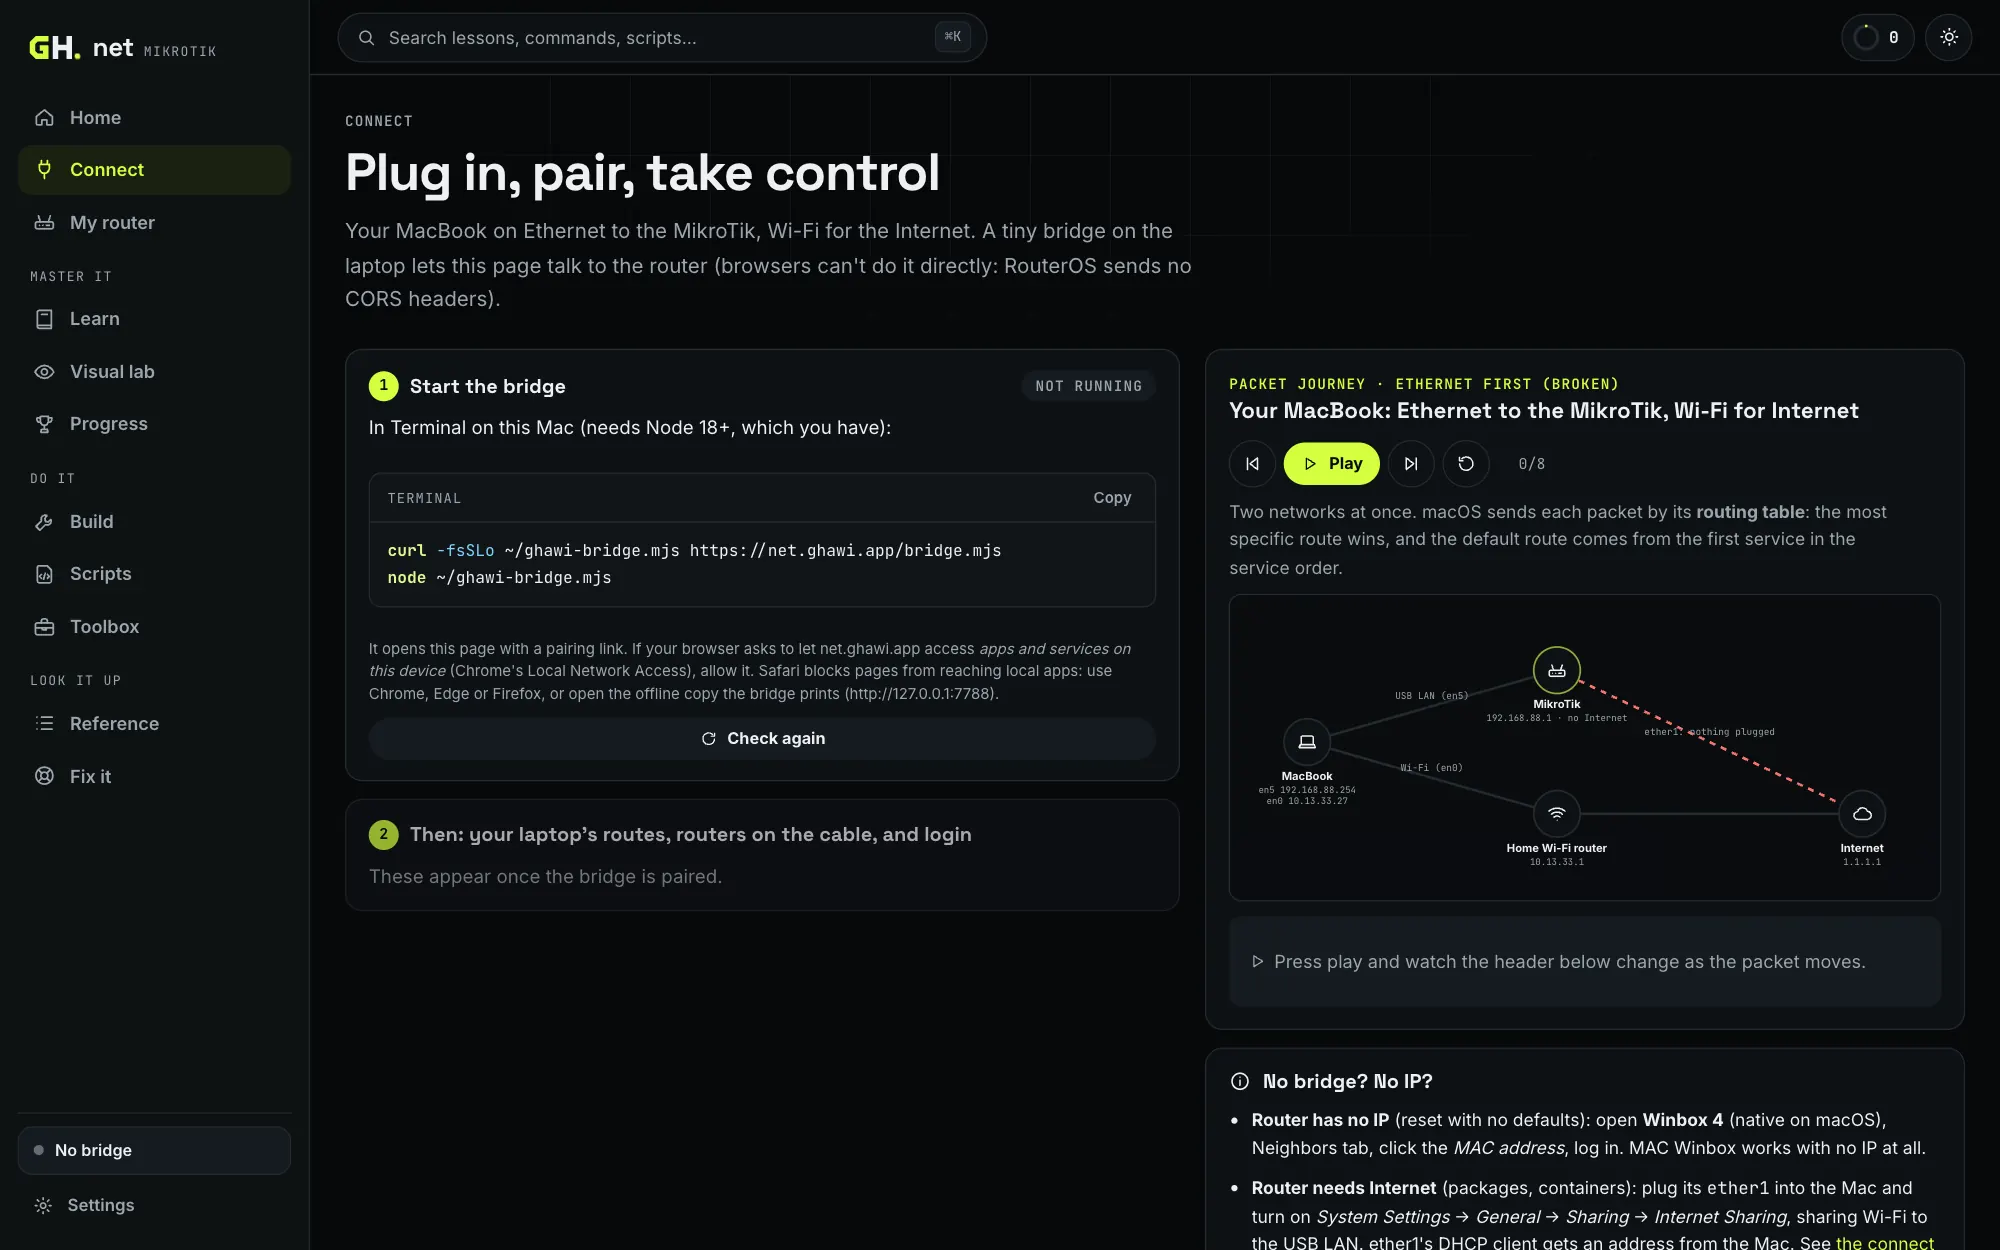
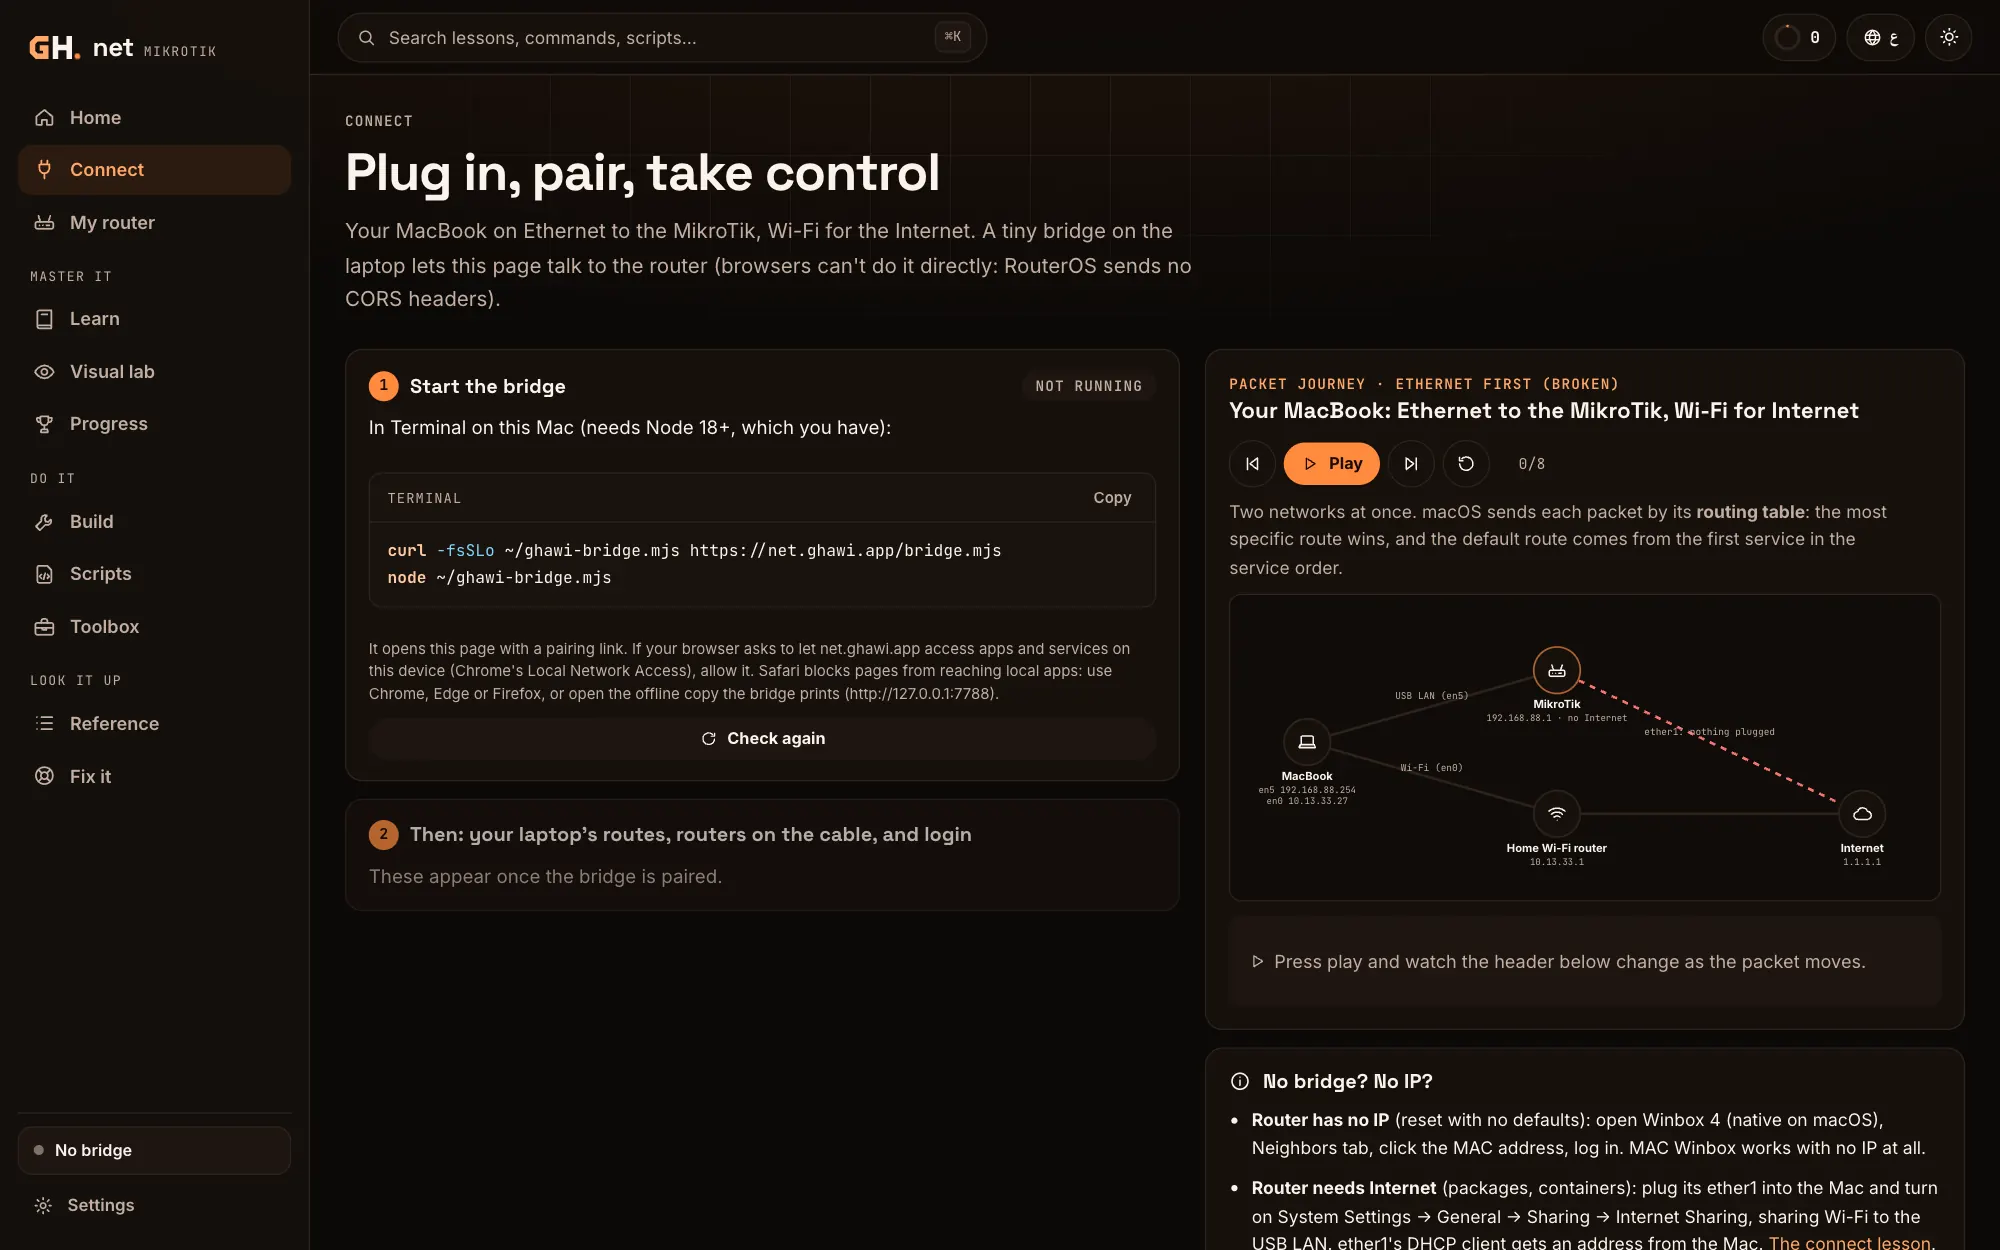
home.ghawi.app without sign-in; GH net shown in its orange look
- home.ghawi.app is a plain page now (the owner's call): no admin sign-in,
  no sign-out button. It stays noindex; every admin it links to keeps its
  own sign-in.
- GH net's screenshots (project card, case study, gallery) retaken in its
  new orange Ember look, so it no longer reads like GH-Cash's green.
- The Arabic GH net links open the site in Arabic (?lang=ar).

diff --git a/src/app/home/page.tsx b/src/app/home/page.tsx
@@ -1,17 +1,10 @@
-import { cookies } from "next/headers";
-import { LoginForm } from "@/components/admin/login-form";
 import { HomeConsole } from "@/components/home/home-console";
-import { ADMIN_COOKIE, type AdminEnv, getEnv, isAuthenticated } from "@/lib/admin-server";
 
-export const dynamic = "force-dynamic";
-
-/** home.ghawi.app — the ghawi.app admin's sign-in, then every ghawi service. */
-export default async function HomePage() {
-  const env = ((await getEnv()) ?? {}) as AdminEnv;
-  const configured = Boolean(env.ADMIN_USERNAME && env.ADMIN_PASSWORD_HASH && env.ADMIN_SESSION_SECRET);
-  if (!configured) return <LoginForm locked note="home, every ghawi service in one place." />;
-
-  const jar = await cookies();
-  const authed = await isAuthenticated(jar.get(ADMIN_COOKIE)?.value, env);
-  return authed ? <HomeConsole /> : <LoginForm locked={false} note="home, every ghawi service in one place. Sign in with the ghawi.app admin account." />;
+/**
+ * home.ghawi.app — every ghawi service in one place. A plain page, no sign-in
+ * (the owner's call): each admin it links to keeps its own sign-in. Still
+ * never indexed (layout metadata and next.config.ts headers).
+ */
+export default function HomePage() {
+  return <HomeConsole />;
 }

diff --git a/src/components/home/home-console.tsx b/src/components/home/home-console.tsx
@@ -1,6 +1,5 @@
 "use client";
 
-import { useRouter } from "next/navigation";
 import { ExternalIcon, MoonIcon, ServiceIcon, SunIcon } from "@/components/icons";
 import { Logo } from "@/components/logo";
 import { HOME_SERVICES } from "@/lib/home-links";
@@ -8,15 +7,8 @@ import { getEffectiveMode, setMode } from "@/lib/theme-client";
 
 const host = (href: string) => new URL(href).host + new URL(href).pathname.replace(/\/$/, "");
 
-/** home.ghawi.app: a card per ghawi service, each opening in its own tab. */
+/** home.ghawi.app: a card per ghawi service, each opening in its own tab. A plain page, no sign-in. */
 export function HomeConsole() {
-  const router = useRouter();
-
-  async function signOut() {
-    await fetch("/api/admin/logout", { method: "POST" });
-    router.refresh();
-  }
-
   return (
     <div className="admin">
       <header className="admin__bar">
@@ -38,9 +30,6 @@ export function HomeConsole() {
               <span className="when-dark">
                 <SunIcon />
               </span>
-            </button>
-            <button type="button" className="btn btn--xs btn--soft press" onClick={signOut}>
-              Sign out
             </button>
           </div>
         </div>

diff --git a/src/lib/content.ts b/src/lib/content.ts
@@ -1438,8 +1438,8 @@ const ar: Dictionary = {
       stack: ["React", "TypeScript", "Vite", "Node.js", "RouterOS REST API", "Cloudflare Workers"],
       live: true,
       links: [
-        { label: "net.ghawi.app", href: "https://net.ghawi.app" },
-        { label: "ابدأ التعلّم", href: "https://net.ghawi.app/learn" },
+        { label: "net.ghawi.app", href: "https://net.ghawi.app/?lang=ar" },
+        { label: "ابدأ التعلّم", href: "https://net.ghawi.app/learn?lang=ar" },
       ],
       shots: {
         desktop: "الصفحة الرئيسية لـ net.ghawi.app: مسار التعلّم والرتبة والاختصارات",

diff --git a/src/lib/home-links.ts b/src/lib/home-links.ts
@@ -1,5 +1,5 @@
 /**
- * home.ghawi.app: every ghawi service in one place, for the owner only. Not linked from ghawi.app and
+ * home.ghawi.app: every ghawi service in one place. A plain page (no sign-in), not linked from ghawi.app and
  * never indexed; a service shows on the public site only when it's ready to.
  * Add a service here and it appears on the page.
  */
